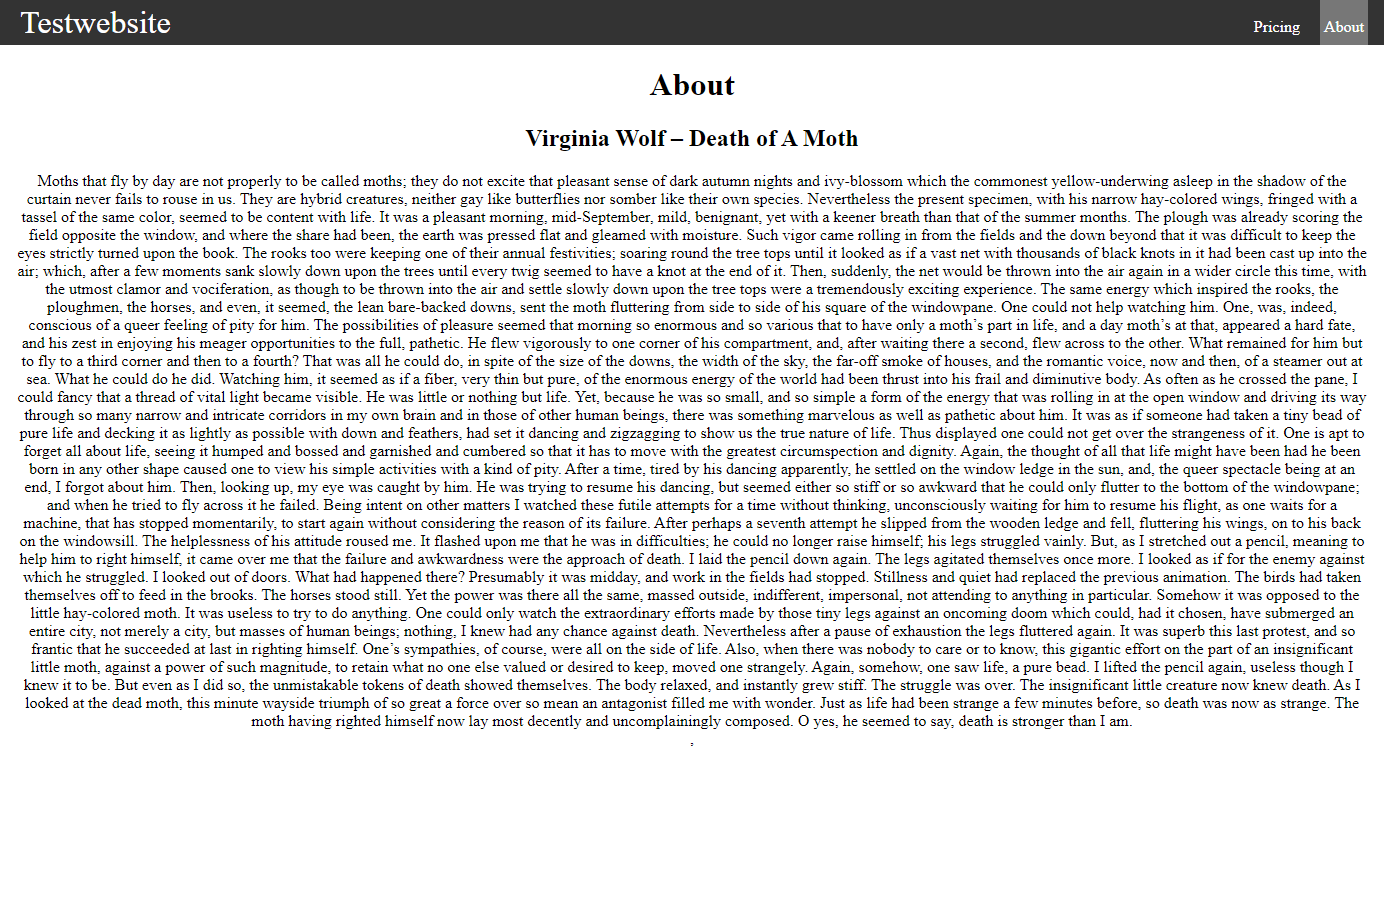
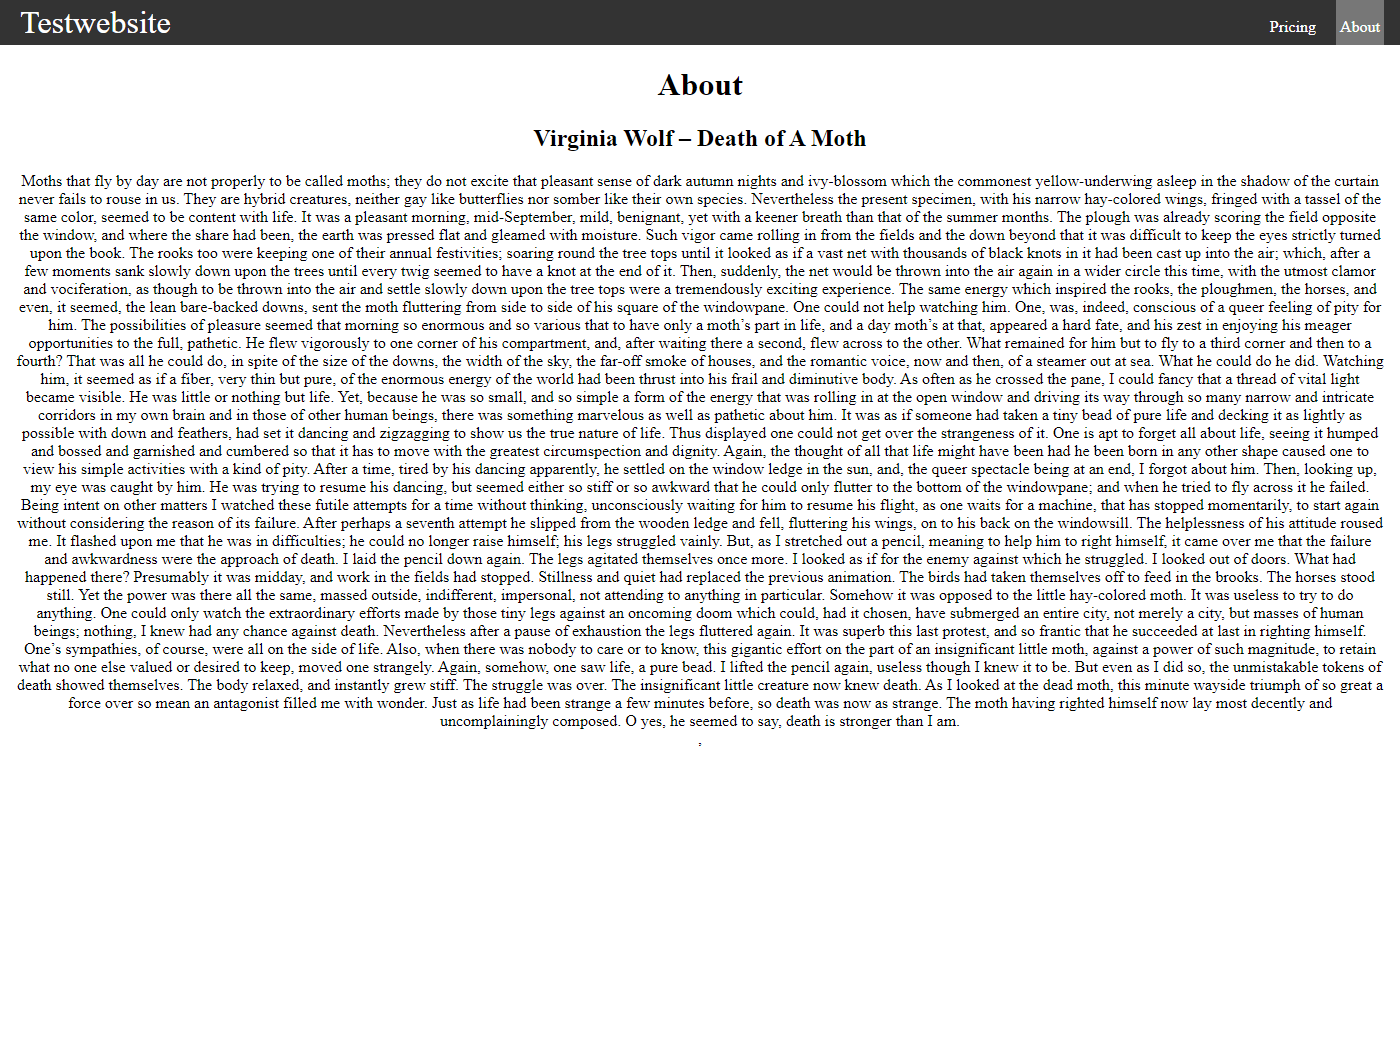
switch from chrome to chromium

diff --git a/src/main.py b/src/main.py
@@ -1,5 +1,9 @@
 import os
 from selenium import webdriver
+from webdriver_manager.chrome import ChromeDriverManager
+from webdriver_manager.core.utils import ChromeType
+from selenium.webdriver.chrome.options import Options
+from selenium.webdriver.chrome.service import Service
 from PIL import Image
 #import random
 #import uuid
@@ -7,13 +11,30 @@ from wand.image import Image
 from selenium.webdriver.common.keys import Keys
 import time 
 
+
+chrome_service = Service(ChromeDriverManager(chrome_type=ChromeType.CHROMIUM).install())
+
+chrome_options = Options()
+options = [
+    "--headless",
+    "--disable-gpu",
+    "--window-size=1400,1050",
+    "--ignore-certificate-errors",
+    "--disable-extensions",
+    "--no-sandbox",
+    "--disable-dev-shm-usage"
+]
+for option in options:
+    chrome_options.add_argument(option)
+
+driver = webdriver.Chrome(service=chrome_service, options=chrome_options)
 os.environ['PATH'] = r"C:/Devlopment/SeleniumDrivers/chromedriver.exe"
 imagePath = './compImages/'
 basePricingPage = './compImages/PricingRef.png'
 baseAboutPage = './compImages/AboutRef.png'
 baseHomePage = './compImages/HomeRef.png'
-driver = webdriver.Chrome()
-driver.set_window_size(1400, 1050)
+#driver = webdriver.Chrome()
+#driver.set_window_size(1400, 1050)
 url = "http://localhost:3000"
 driver.get(url) #local als auch 'on your network' funktioniert beides
 
